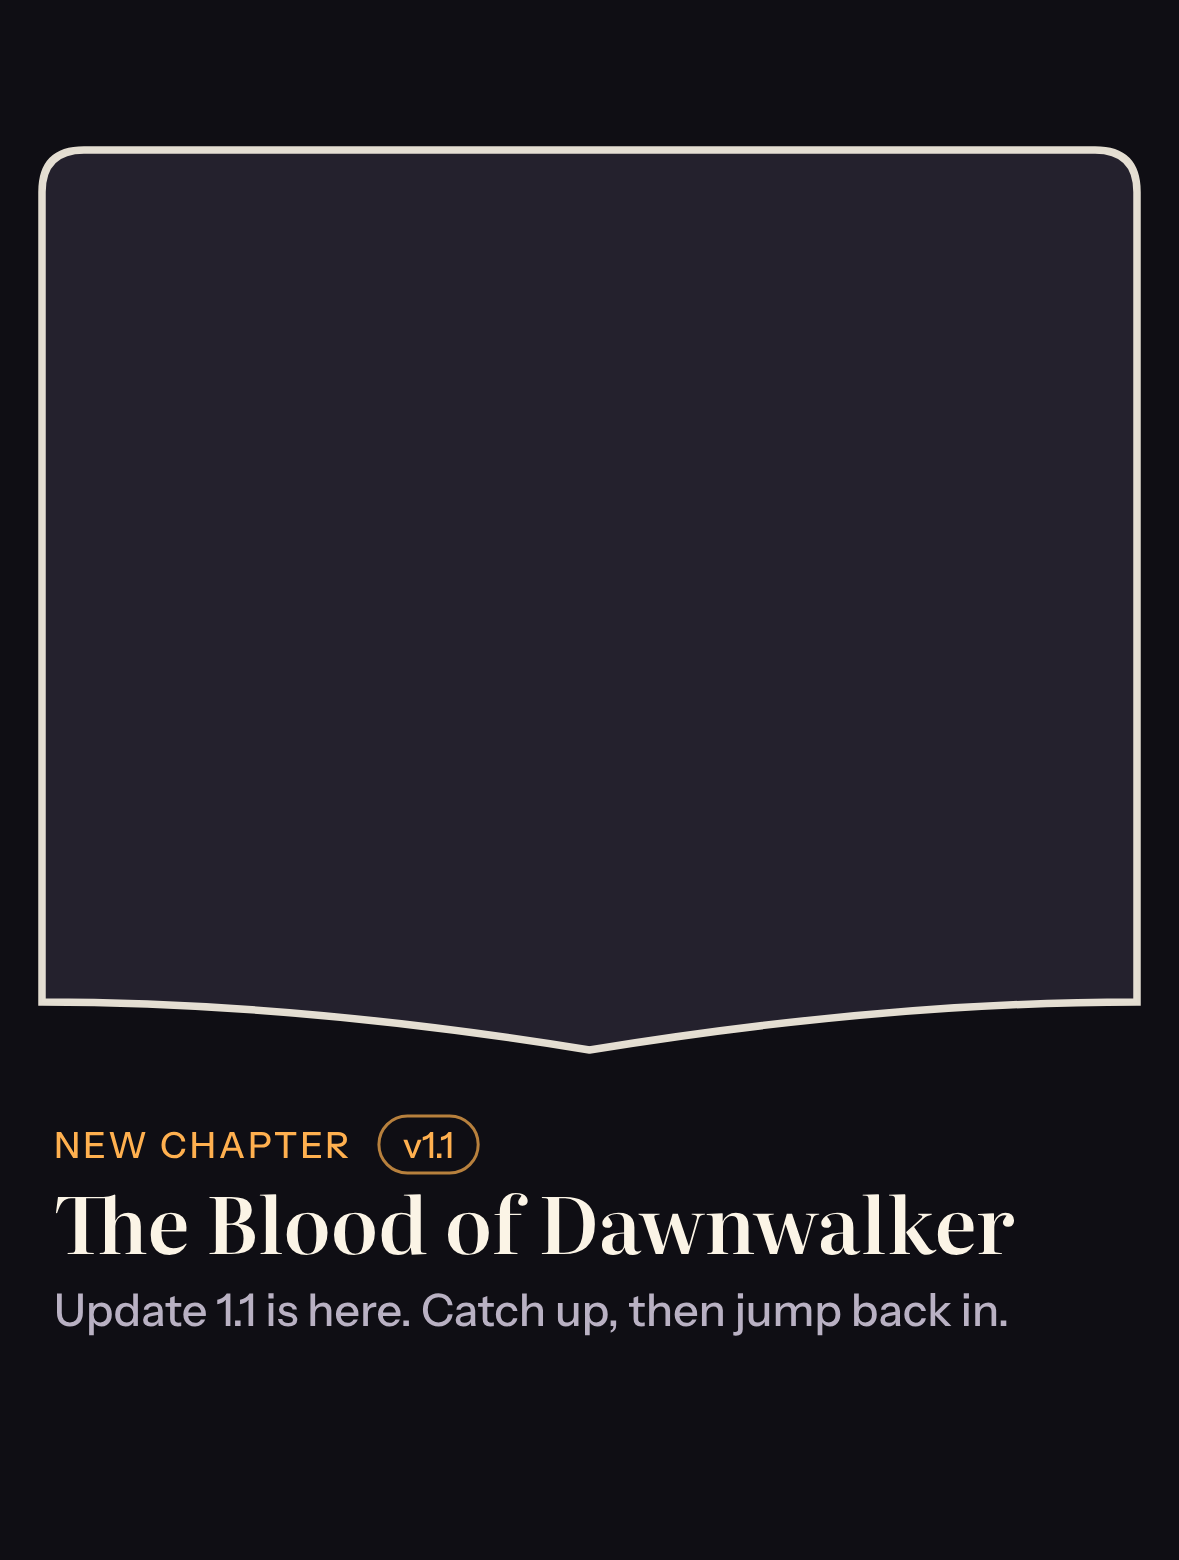
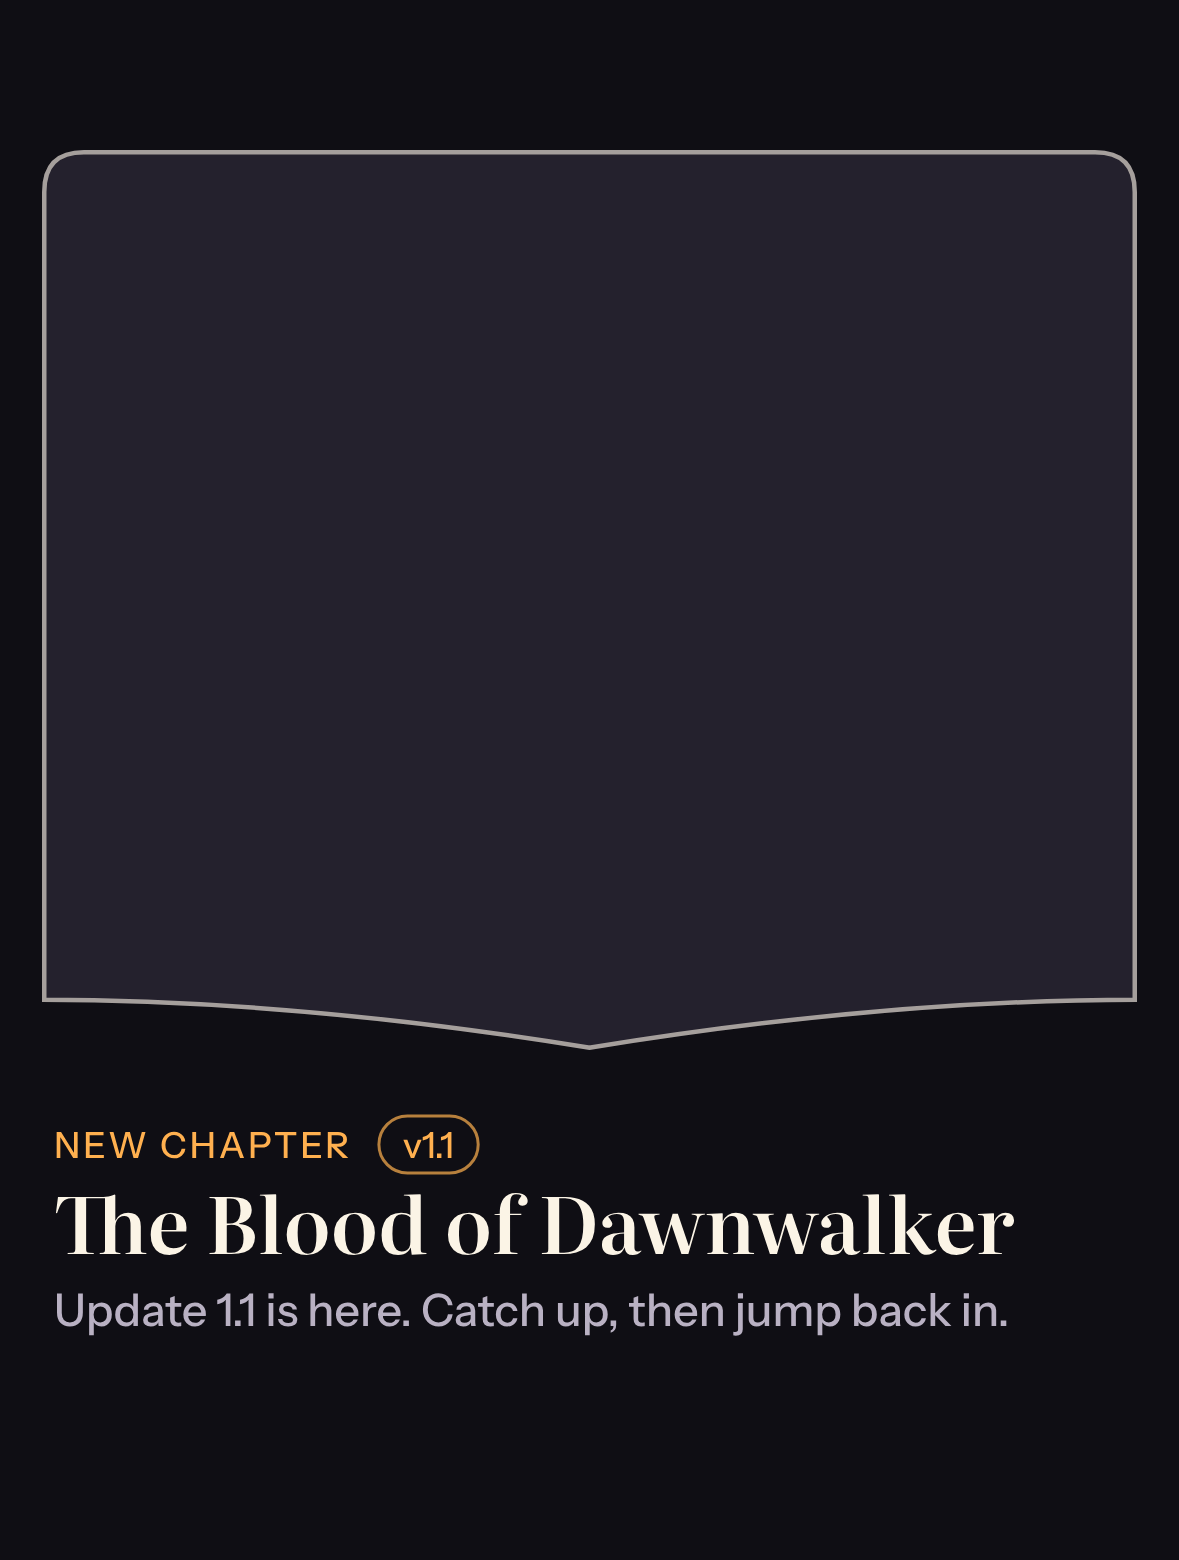
Brand: QA v2 fixes and Swap sides glyph
Tinted icon note lines darkened; hero focus ring becomes an inset lit edge
that can't be mistaken for keyboard focus; new 24pt swap-sides glyph with
outline, fill and 30pt button variants.

Claude-Session: https://claude.ai/code/session_01ThTBtbiNV3BhyNnZgvVx2r

Changed region(s): [[0.0305, 0.0923, 0.9771, 0.6462], [0.2137, 0.6462, 0.7939, 0.6769]]

diff --git a/brand/tools/glyphs.py b/brand/tools/glyphs.py
@@ -1,0 +1,60 @@
+"""Playscribe UI glyphs on a 24 pt grid, weight-matched to SF Symbols Regular (1.6 pt strokes).
+
+swap-sides: two facing pages from the Playscribe mark, with an arc above that trades them across
+the spine. Used for "Swap sides" on iPhone Duo (moves the reading page to the other half).
+Run: python3 brand/tools/glyphs.py
+"""
+import json
+import math
+import pathlib
+
+BRAND = pathlib.Path(__file__).resolve().parent.parent
+C = json.loads((BRAND / 'tokens.json').read_text())['color']
+OUT = BRAND / 'ios' / 'symbols'
+SW = 1.6  # stroke width at 24 pt, close to SF Symbols Regular
+
+LEFT = 'M11 11.2C9 9.9 6.3 9.6 3.6 10.1V20.2C6.3 19.7 9 20 11 21.3Z'
+RIGHT = 'M13 11.2C15 9.9 17.7 9.6 20.4 10.1V20.2C17.7 19.7 15 20 13 21.3Z'
+ARC_A, ARC_C, ARC_B = (6.4, 7.6), (12, 1.4), (17.6, 7.6)
+
+
+def head(tip, ctrl, size=2.6, spread=math.radians(38)):
+    """Open arrowhead at `tip`, pointing along the curve's end tangent (from `ctrl`)."""
+    ang = math.atan2(tip[1] - ctrl[1], tip[0] - ctrl[0])
+    pts = [(tip[0] - size * math.cos(ang + s), tip[1] - size * math.sin(ang + s)) for s in (spread, -spread)]
+    return f'M{pts[0][0]:.2f} {pts[0][1]:.2f}L{tip[0]} {tip[1]}L{pts[1][0]:.2f} {pts[1][1]:.2f}'
+
+
+ARC = f'M{ARC_A[0]} {ARC_A[1]}Q{ARC_C[0]} {ARC_C[1]} {ARC_B[0]} {ARC_B[1]}'
+HEADS = head(ARC_B, ARC_C) + head(ARC_A, ARC_C)
+STROKE = f'fill="none" stroke="currentColor" stroke-width="{SW}" stroke-linecap="round" stroke-linejoin="round"'
+
+
+def glyph(fill_pages=False, color='currentColor'):
+    pages = (f'<path d="{LEFT} {RIGHT}" fill="{color}" stroke="{color}" stroke-width="{SW}" stroke-linejoin="round"/>'
+             if fill_pages else f'<path d="{LEFT} {RIGHT}" {STROKE.replace("currentColor", color)}/>')
+    return pages + f'<path d="{ARC}{HEADS}" {STROKE.replace("currentColor", color)}/>'
+
+
+def svg(body, size=24, view='0 0 24 24'):
+    return f'<svg xmlns="http://www.w3.org/2000/svg" width="{size}" height="{size}" viewBox="{view}">{body}</svg>\n'
+
+
+def main():
+    OUT.mkdir(parents=True, exist_ok=True)
+    (OUT / 'swap-sides.svg').write_text(svg(glyph()))
+    (OUT / 'swap-sides.fill.svg').write_text(svg(glyph(fill_pages=True)))
+    # Ember button: 30 pt circle in accent, glyph at 17 pt in accent.on (never white on ember).
+    k = 17 / 24
+    off = (30 - 17) / 2
+    body = (f'<circle cx="15" cy="15" r="15" fill="{C["accent"]["base"]}"/>'
+            f'<g transform="translate({off} {off}) scale({k:.4f})">{glyph(color=C["accent"]["on"])}</g>')
+    (OUT / 'swap-sides-button-ember.svg').write_text(svg(body, 30, '0 0 30 30'))
+    body = (f'<circle cx="15" cy="15" r="15" fill="{C["ink"]["700"]}"/>'
+            f'<g transform="translate({off} {off}) scale({k:.4f})">{glyph(color=C["text"]["primary"])}</g>')
+    (OUT / 'swap-sides-button.svg').write_text(svg(body, 30, '0 0 30 30'))
+    print('ok')
+
+
+if __name__ == '__main__':
+    main()

diff --git a/brand/tools/gen.py b/brand/tools/gen.py
@@ -40,7 +40,7 @@ BAR_FILL = 0.62
 
 def notes_body(p, tone='default', sides=('left', 'right')):
     if tone == 'mono-knock':  # tinted icon: greys on grey pages
-        line, track, fill = '#4a4a4a', '#6a6a6a', '#ffffff'
+        line, track, fill = '#2a2a2a', '#5a5a5a', '#ffffff'
     else:
         line = track = C['ink']['900']
         fill = f'url(#{p}s)'
@@ -327,9 +327,10 @@ def splash_and_cover():
     art_h, dip = 300, 16
     edge = (f'M14 64Q14 50 28 50H{W - 28}Q{W - 14} 50 {W - 14} 64V{art_h + 50 - dip}'
             f'Q{W * 0.75:.1f} {art_h + 50 - dip} {W / 2} {art_h + 50}Q{W * 0.25:.1f} {art_h + 50 - dip} 14 {art_h + 50 - dip}Z')
-    # Console vernacular: the selected tile wears a focus ring, as on a console home screen.
-    frame = (f'<path d="{edge}" fill="{C["ink"]["700"]}"/>'
-             f'<path d="{edge}" fill="none" stroke="{C["vellum"]["100"]}" stroke-width="2.5" stroke-opacity=".9"/>')
+    # The selected game gets a lit inner edge (console vernacular), drawn inside the frame so it
+    # never reads as an accessibility focus ring: 1.5 pt vellum at 60%, clipped to the card.
+    frame = (f'<clipPath id="hc"><path d="{edge}"/></clipPath><path d="{edge}" fill="{C["ink"]["700"]}"/>'
+             f'<path d="{edge}" fill="none" stroke="{C["vellum"]["100"]}" stroke-width="3" stroke-opacity=".6" clip-path="url(#hc)"/>')
     lab, lw = text(SANS, 'NEW CHAPTER', 12, 18, art_h + 86, C['accent']['base'], tracking=0.08)
     # Version chip: the patch number, outlined in ember.
     vx = 18 + lw + 10

diff --git a/brand/README.md b/brand/README.md
@@ -8,7 +8,7 @@ Live board: https://claude.ai/artifact/8mRkcMcHMa3jox19BszVpb
 
 **Console cues.** These come from shared console vernacular, never from PlayStation's own marks:
 - the update bar: in the mark, and filling on the splash
-- the focus ring on the selected game tile
+- the lit inner edge on the selected game tile
 - the ember version chip ("v1.1")
 
 **Colour.** `tokens.json` is the source of truth. Ink is the ground, vellum is pages and text, ember is the accent and is reserved for interactive elements and unread state. Every text colour passes WCAG AA on Ink 900 down to Ink 600. Text and glyphs on an ember fill always use `accent.on` (#2A1600), never white. Dark is the default.
@@ -31,11 +31,15 @@ iOS icons are one 1024x1024 layered design. Appearances are default, dark, clear
 - **Closed Library hero: framed, not badged.** The closed Library leads with the Continue game's key art. Playscribe's own frame around the art is what says "this is the app, not the game". There is no logo or badge on the art, because HIG Branding advises against repeating your logo or app name in the UI.
   - The art sits in a card inset 14 pt from both edges, below the large title, with 14 pt continuous corners at the top.
   - The card's bottom edge follows the open book's lower silhouette: straight at both sides, dipping 16 pt to the centre like the pages meeting at the spine. Draw it as two quad curves (see `library/closed-hero.svg`).
-  - The card wears a console-style focus ring, 2.5 pt vellum 100 at 90% opacity, because it is the selected game.
+  - The selected game gets a lit inner edge: 1.5 pt vellum 100 at 60% opacity, inset inside the frame and following its corners. It is decoration with no accessibility trait. It must never look like a focus ring, because Full Keyboard Access draws its own.
   - Below the art, on ink: "NEW CHAPTER" in Instrument Sans caption with ember and 0.08 em tracking, followed by the version chip (an ember outline at 70% opacity, 19 pt tall, pill-shaped). Then the game title in Literata title2, then the invite line in subheadline secondary, for example "Update 1.1 is here. Catch up, then jump back in." The game's own logo stays inside its art and is never redrawn by us.
-  - The whole card, frame plus text, is one button, at least 44 pt, with a VoiceOver label like "New chapter, Update 1.1, The Blood of Dawnwalker". The focus ring and the dip are decoration only.
+  - The whole card, frame plus text, is one button, at least 44 pt, with a VoiceOver label like "New chapter, Update 1.1, The Blood of Dawnwalker". The inner edge and the dip are decoration only.
   - In tabletop the framed art moves to the upper half and is display-only. The NEW CHAPTER label, chip, title, update line and tap target stay in the lower half.
   - The large title "Library" in Literata and the ink and vellum chrome carry the brand everywhere else.
+
+## Glyphs
+
+`ios/symbols/swap-sides*.svg` is Swap sides: two facing pages from the mark, traded across the spine by an arc. It uses a 24 pt grid and 1.6 pt strokes, close to SF Symbols Regular. It comes as an outline and a fill. The buttons are a 30 pt circle with the glyph at 17 pt, in ink 700 with vellum, or ember with `accent.on` (never white). To make a true SF Symbol, open the SF Symbols app on the Mac, export the template for `book` (Regular-S), paste `swap-sides.svg` into the Regular-S group, then validate and import the template into the asset catalog as a Symbol Image. That can't be done off a Mac. Until then, use the SVG as a template image with Preserve Vector Data turned on.
 
 ## PlayStation
 
